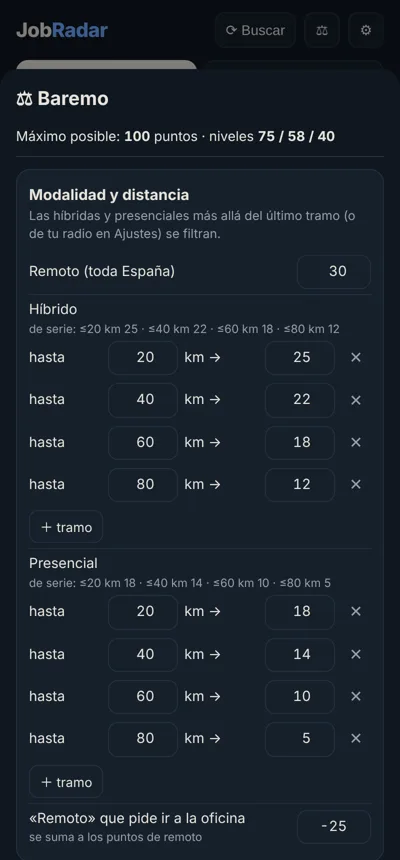
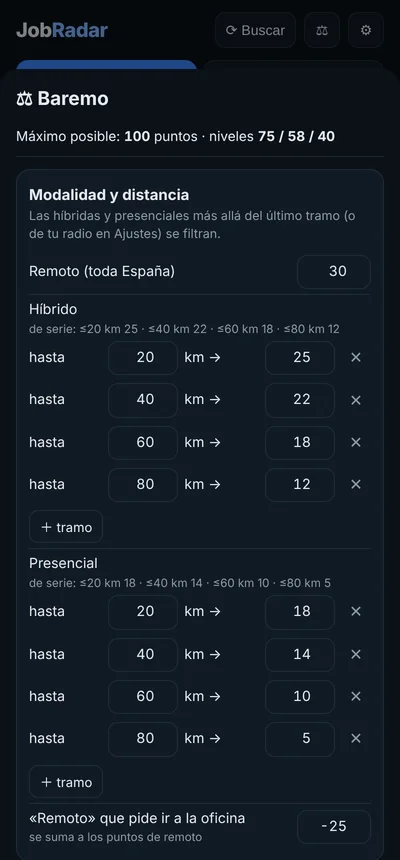
Tema oscuro por defecto y selector de tema
- Panel con paleta oscura propia por defecto (también fuera del modo oscuro del móvil)
- Selector en Ajustes: oscuro, claro o como el sistema (se recuerda en cada dispositivo)
- La APK pone la barra de estado y la de navegación a juego con el tema de la web
- Capturas del README actualizadas

Changed region(s): [[0.03, 0.0605, 0.48, 0.0907]]

diff --git a/server/jobradar/static/index.html b/server/jobradar/static/index.html
@@ -3,18 +3,37 @@
 <head>
 <meta charset="utf-8">
 <meta name="viewport" content="width=device-width, initial-scale=1, viewport-fit=cover">
-<meta name="theme-color" content="#0f1720">
+<meta name="theme-color" content="#0b1118">
 <title>JobRadar</title>
+<script>
+// tema: oscuro por defecto; se cambia en ⚙ Ajustes (se recuerda en este móvil/navegador)
+(function () {
+  let t = "oscuro";
+  try { t = localStorage.getItem("jr_tema") || "oscuro"; } catch (e) {}
+  document.documentElement.dataset.tema = t;
+})();
+</script>
 <style>
 :root{
   --bg:#f4f1ea; --card:#fffdf8; --ink:#1b1f24; --mute:#6b6f76; --line:#e3ddd0;
   --p1:#c2410c; --p2:#b7791f; --p3:#2f6f9f; --p4:#8a8f96; --ok:#2f7d4f; --bad:#b4232c; --acc:#2563eb;
-  --chip:#ece6d9; --accent:#1b1f24;
+  --chip:#ece6d9; --accent:#1b1f24; --on-acc:#f4f1ea; --sombra:0 1px 2px rgba(0,0,0,.06);
+  color-scheme:light;
+}
+/* Oscuro: por defecto, o "como el sistema" con el móvil en modo oscuro */
+:root[data-tema="oscuro"]{
+  --bg:#0b1118; --card:#111a24; --ink:#e6e9ee; --mute:#8e9aa8; --line:#1f2c3a;
+  --p1:#ff8a4c; --p2:#f0b84d; --p3:#6cb2ea; --p4:#728091; --ok:#5fcf8e; --bad:#ff7a85; --acc:#7cb1ff;
+  --chip:#182330; --accent:#3b82f6; --on-acc:#ffffff; --sombra:0 1px 0 rgba(255,255,255,.03), 0 6px 18px rgba(0,0,0,.25);
+  color-scheme:dark;
 }
 @media (prefers-color-scheme: dark){
-  :root{ --bg:#0f1720; --card:#16202b; --ink:#e8e4da; --mute:#97a0ab; --line:#243140;
-    --p1:#f07a3c; --p2:#e2b04a; --p3:#6aa9d8; --p4:#7c8792; --ok:#5fbf86; --bad:#f2777f; --acc:#6ea8fe;
-    --chip:#1e2a37; --accent:#e8e4da; }
+  :root[data-tema="auto"]{
+    --bg:#0b1118; --card:#111a24; --ink:#e6e9ee; --mute:#8e9aa8; --line:#1f2c3a;
+    --p1:#ff8a4c; --p2:#f0b84d; --p3:#6cb2ea; --p4:#728091; --ok:#5fcf8e; --bad:#ff7a85; --acc:#7cb1ff;
+    --chip:#182330; --accent:#3b82f6; --on-acc:#ffffff; --sombra:0 1px 0 rgba(255,255,255,.03), 0 6px 18px rgba(0,0,0,.25);
+    color-scheme:dark;
+  }
 }
 *{box-sizing:border-box}
 html,body{margin:0;background:var(--bg);color:var(--ink);
@@ -31,7 +50,7 @@ header{position:sticky;top:0;z-index:5;background:var(--bg);padding:12px 16px 8p
 .vistas{display:grid;grid-template-columns:1fr 1fr;gap:6px;margin:12px 0 4px}
 .vistas button{border:1px solid var(--line);background:var(--card);color:var(--mute);border-radius:12px;height:42px;
   font-size:15px;font-weight:700;cursor:pointer}
-.vistas button.on{background:var(--accent);color:var(--bg);border-color:var(--accent)}
+.vistas button.on{background:var(--accent);color:var(--on-acc);border-color:var(--accent)}
 .badge{display:inline-grid;place-items:center;min-width:20px;height:20px;padding:0 6px;border-radius:999px;background:var(--p1);
   color:#fff;font-size:12px;font-weight:800;margin-left:6px;vertical-align:1px}
 .stats{display:flex;gap:6px;margin:10px 0 8px;overflow-x:auto;scrollbar-width:none}
@@ -39,7 +58,7 @@ header{position:sticky;top:0;z-index:5;background:var(--bg);padding:12px 16px 8p
 .chip{flex:0 0 auto;border:1px solid transparent;background:var(--chip);color:var(--ink);border-radius:999px;padding:6px 12px;
   font-size:13px;cursor:pointer;white-space:nowrap}
 .chip b{font-variant-numeric:tabular-nums;margin-left:4px}
-.chip.on{background:var(--accent);color:var(--bg)}
+.chip.on{background:var(--accent);color:var(--on-acc)}
 .chip .dot{display:inline-block;width:8px;height:8px;border-radius:50%;margin-right:6px;vertical-align:1px}
 .row2{display:flex;gap:6px;align-items:center}
 .seg{display:flex;background:var(--chip);border-radius:10px;padding:3px;flex:0 0 auto}
@@ -55,7 +74,7 @@ main{padding:12px 16px 90px;max-width:780px;margin:0 auto}
 .progreso{background:var(--card);border:1px solid var(--line);border-radius:12px;padding:10px 12px;margin-bottom:10px;font-size:13.5px}
 .barra{height:6px;background:var(--line);border-radius:3px;margin-top:6px;overflow:hidden}
 .barra i{display:block;height:100%;background:var(--acc);width:0;transition:width .4s}
-.card{background:var(--card);border:1px solid var(--line);border-radius:14px;padding:14px;margin-bottom:10px;
+.card{background:var(--card);border:1px solid var(--line);border-radius:14px;padding:14px;margin-bottom:10px;box-shadow:var(--sombra);
   display:grid;grid-template-columns:52px 1fr;gap:12px;transition:outline-color .6s}
 .card.hl{outline:2px solid var(--acc);outline-offset:2px}
 .card.leida{opacity:.82}
@@ -83,7 +102,7 @@ main{padding:12px 16px 90px;max-width:780px;margin:0 auto}
 .acts{display:flex;gap:6px;margin-top:10px;flex-wrap:wrap}
 .btn{font-size:13px;border:1px solid var(--line);background:transparent;color:var(--ink);border-radius:9px;
   padding:6px 10px;text-decoration:none;cursor:pointer;white-space:nowrap;font-family:inherit}
-.btn.pri{background:var(--accent);color:var(--bg);border-color:var(--accent);font-weight:700}
+.btn.pri{background:var(--accent);color:var(--on-acc);border-color:var(--accent);font-weight:700}
 .btn.cv{border-color:var(--acc);color:var(--acc);font-weight:700}
 .btn.on{background:var(--chip);font-weight:700}
 .btn:disabled{opacity:.5}
@@ -124,7 +143,7 @@ textarea.json{font:12px/1.4 ui-monospace,Menlo,Consolas,monospace;height:340px;m
 .tr .x{border:0;background:transparent;color:var(--mute);font-size:16px;cursor:pointer}
 .maxi{position:sticky;top:-16px;background:var(--bg);padding:8px 0;z-index:1;font-size:13.5px;border-bottom:1px solid var(--line)}
 .maxi b{font-variant-numeric:tabular-nums}
-.toast{position:fixed;left:50%;bottom:24px;transform:translateX(-50%);background:var(--accent);color:var(--bg);
+.toast{position:fixed;left:50%;bottom:24px;transform:translateX(-50%);background:var(--accent);color:var(--on-acc);
   padding:10px 16px;border-radius:12px;font-size:14px;z-index:30;display:none;max-width:90vw}
 </style>
 </head>
@@ -272,6 +291,23 @@ function pintarAvisos() {
   }
   $("#avisos").innerHTML = out.join("");
 }
+
+function esOscuro() {
+  const t = document.documentElement.dataset.tema;
+  return t === "oscuro" || (t === "auto" && matchMedia("(prefers-color-scheme: dark)").matches);
+}
+function ponerTema(t) {
+  document.documentElement.dataset.tema = t;
+  try { localStorage.setItem("jr_tema", t); } catch (e) {}
+  avisarTemaApp();
+}
+function avisarTemaApp() {
+  // la barra de estado del móvil, a juego con la página
+  const oscuro = esOscuro();
+  document.querySelector('meta[name="theme-color"]').content = oscuro ? "#0b1118" : "#f4f1ea";
+  if (ANDROID && Android.tema) Android.tema(oscuro);
+}
+matchMedia("(prefers-color-scheme: dark)").addEventListener?.("change", avisarTemaApp);
 
 function proxTxt(ts) {
   if (!ts) return "—";
@@ -469,7 +505,13 @@ async function abrirAjustes() {
   const f = Object.assign({modo: "horas", cada_horas: 3, desde: "08:00", hasta: "22:00", dias: [0, 1, 2, 3, 4, 5, 6]}, a.frecuencia || {});
   const pas = (e.pasadas || []).map(x => `<div>${new Date(x.inicio * 1000).toLocaleString("es", {dateStyle: "short", timeStyle: "short"})}
      · ${x.tarjetas} vistas · ${x.nuevas} nuevas · ${x.cvs || 0} CV${x.error ? ` · <span class="no">${esc(x.error)}</span>` : ""}</div>`).join("") || "Ninguna todavía";
+  const tema = document.documentElement.dataset.tema;
   $("#ajustesIn").innerHTML = `<h2>Ajustes</h2>
+    <label>Tema</label>
+    <div class="seg" id="aTema" style="display:inline-flex">
+      <button data-t="oscuro" class="${tema === "oscuro" ? "on" : ""}">🌙 Oscuro</button>
+      <button data-t="claro" class="${tema === "claro" ? "on" : ""}">☀ Claro</button>
+      <button data-t="auto" class="${tema === "auto" ? "on" : ""}">Como el sistema</button></div>
     <div class="dos">
       <div><label>Sueldo mínimo (€/año)</label><input type="number" id="aMin" value="${p.sueldo_minimo}"></div>
       <div><label>Sueldo objetivo (€/año)</label><input type="number" id="aObj" value="${p.sueldo_objetivo}"></div>
@@ -539,6 +581,11 @@ async function abrirAjustes() {
   };
   $("#ajustesIn").oninput = resumenFrec;
   resumenFrec();
+  $("#aTema").onclick = ev => {
+    const b = ev.target.closest("[data-t]"); if (!b) return;
+    ponerTema(b.dataset.t);
+    $("#aTema").querySelectorAll("button").forEach(x => x.classList.toggle("on", x === b));
+  };
   $("#aCerrar").onclick = () => $("#hAjustes").classList.remove("open");
   $("#aBaremo").onclick = () => { $("#hAjustes").classList.remove("open"); abrirBaremo().catch(e => toast(e.message)); };
   if ($("#aApp")) $("#aApp").onclick = () => Android.openSettings();
@@ -754,6 +801,7 @@ async function irAncla() {
   marcarVista(S.items.find(o => o.id === id));
 }
 window.addEventListener("hashchange", irAncla);
+avisarTemaApp();
 if (location.hash === "#cv") vista("cv");
 cargar().then(() => { irAncla(); if (S.est && S.est.pasada && S.est.pasada.en_curso) vigilarPasada(); });
 </script>

diff --git a/android/app/src/main/java/com/svaronam/jobradar/MainActivity.kt b/android/app/src/main/java/com/svaronam/jobradar/MainActivity.kt
@@ -6,10 +6,12 @@ import android.app.AlertDialog
 import android.content.ActivityNotFoundException
 import android.content.Intent
 import android.content.pm.PackageManager
+import android.graphics.Color
 import android.net.Uri
 import android.os.Build
 import android.os.Bundle
 import android.text.InputType
+import android.view.View
 import android.view.ViewGroup
 import android.webkit.JavascriptInterface
 import android.webkit.ValueCallback
@@ -51,7 +53,9 @@ class MainActivity : Activity() {
             webViewClient = Cliente()
             webChromeClient = Chrome()
         }
+        web.setBackgroundColor(Color.parseColor("#0B1118"))  // sin destello blanco mientras carga
         setContentView(web)
+        barras(true)
 
         if (Build.VERSION.SDK_INT >= 33 &&
             checkSelfPermission(Manifest.permission.POST_NOTIFICATIONS) != PackageManager.PERMISSION_GRANTED) {
@@ -134,6 +138,19 @@ class MainActivity : Activity() {
                 }
             }
         }.start()
+    }
+
+    @Suppress("DEPRECATION")
+    private fun barras(oscuro: Boolean) {
+        val color = Color.parseColor(if (oscuro) "#0B1118" else "#F4F1EA")
+        window.statusBarColor = color
+        window.navigationBarColor = color
+        var f = window.decorView.systemUiVisibility
+        f = if (oscuro) f and View.SYSTEM_UI_FLAG_LIGHT_STATUS_BAR.inv() else f or View.SYSTEM_UI_FLAG_LIGHT_STATUS_BAR
+        if (Build.VERSION.SDK_INT >= 26) {
+            f = if (oscuro) f and View.SYSTEM_UI_FLAG_LIGHT_NAVIGATION_BAR.inv() else f or View.SYSTEM_UI_FLAG_LIGHT_NAVIGATION_BAR
+        }
+        window.decorView.systemUiVisibility = f
     }
 
     private fun abrirFuera(url: String) {
@@ -272,6 +289,10 @@ class MainActivity : Activity() {
 
         @JavascriptInterface
         fun abrirFuera(url: String) = runOnUiThread { this@MainActivity.abrirFuera(url) }
+
+        /** La web avisa de su tema para poner la barra de estado y la de navegación a juego. */
+        @JavascriptInterface
+        fun tema(oscuro: Boolean) = runOnUiThread { barras(oscuro) }
     }
 
     inner class Cliente : WebViewClient() {
@@ -290,14 +311,14 @@ class MainActivity : Activity() {
     }
 
     private fun paginaInicio() = """
-        <html><body style="font-family:sans-serif;background:#0f1720;color:#e8e4da;padding:28px">
+        <html><body style="font-family:sans-serif;background:#0b1118;color:#e8e4da;padding:28px">
         <h2>Job<span style="color:#6ea8fe">Radar</span></h2>
         <p>Pon la dirección del servidor de tu Raspberry (por Tailscale), p. ej. <b>http://homelab1:8796</b>.</p>
         <button onclick="Android.openSettings()" style="padding:10px 16px;border-radius:10px;border:0">Ajustes</button>
         </body></html>""".trimIndent()
 
     private fun paginaError(msg: String) = """
-        <html><body style="font-family:sans-serif;background:#0f1720;color:#e8e4da;padding:28px">
+        <html><body style="font-family:sans-serif;background:#0b1118;color:#e8e4da;padding:28px">
         <h2>No llego a la Raspberry</h2>
         <p style="opacity:.75">$msg</p>
         <p>Comprueba que Tailscale está activo en el móvil y que el servicio <code>jobradar</code> corre en la Pi.</p>
